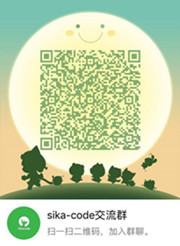
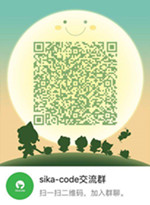
优化图片

diff --git a/README.md b/README.md
@@ -78,7 +78,8 @@
 - 欢迎提交 issue，请写清楚遇到问题的原因，开发环境，复显步骤。
 - sika_code@163.com
 - QQ群: 327424532
-- ![QQ群二维码](sika-file/其他/QQ群二维码.jpg)
+
+ ![QQ群二维码](sika-file/其他/QQ群二维码.jpg)
 
 ## 开发步骤
 
